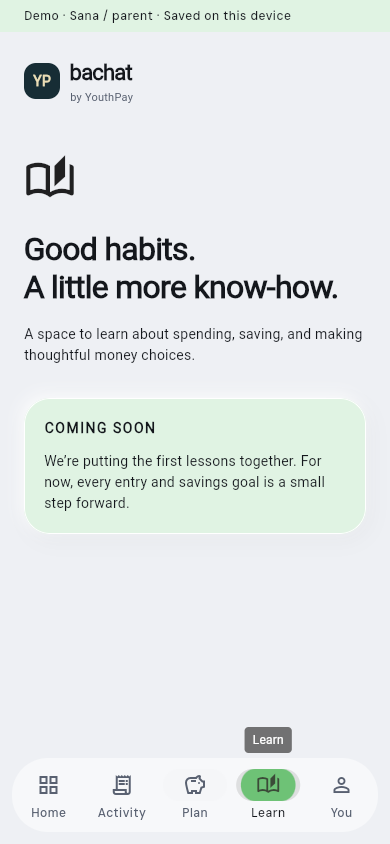
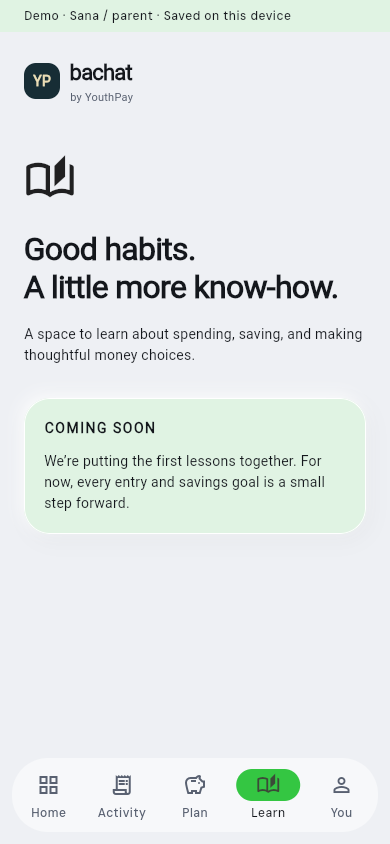
docs: record demo usability checks and updated screen captures

Changed region(s): [[0.5846, 0.8626, 0.7692, 0.955]]

diff --git a/docs/VERIFICATION.md b/docs/VERIFICATION.md
@@ -1,41 +1,17 @@
-# Verification evidence
+# Demo verification
 
-## Palette contrast
+21 domain, repository, controller and widget tests passed. Coverage includes persistent shared demo records, persona restoration, reset, mutual family approval, read-only parent enforcement, access removal, exact money parsing, validated transactions/budgets/goals, and narrow/large-text layouts. Analyzer is clean.
 
-| Actual semantic pair | Contrast |
-|---|---:|
-| Light body on canvas | 13.38:1 |
-| Light secondary on white | 5.12:1 |
-| Light button text | 7.85:1 |
-| Dark body on canvas | 15.68:1 |
-| Dark secondary on surface | 8.29:1 |
-| Dark button text | 7.94:1 |
+Web release compilation and Windows Android arm64 debug APK compilation pass. Chrome at 390 × 844 verified teen and parent dashboards, Plan, Learn, persona switching and parent restoration after reload, with zero page errors. Light and dark screenshots were visually inspected. Widgets cover 320px and 200% text scaling. This is targeted usability/accessibility verification, not certification of every HCI principle or an assistive-device audit.
 
-Ratios calculated from sRGB relative luminance using WCAG contrast arithmetic. These text pairs exceed 4.5:1. This is not a claim that every state and generated Material color has been audited.
+Measured light-theme sRGB contrast: button text #102314 on #34C642 **7.31:1**; body #14171C on #EEF0F4 **15.74:1**; secondary #596171 on #EEF0F4 **5.46:1**; readable green #216D2C on #F7F8FA **6.01:1**. Selected navigation icons use dark primary text in both themes.
 
-## Verified locally
+Demo records stay on this device. Authentication and cloud synchronization are deferred. No live login is claimed. iOS signing/device testing requires the Mac team; no physical Android test has been performed.
 
-- Flutter analyzer: clean.
-- 19 domain, repository, controller, and widget tests cover entry validation, budgets/goals, offline queue coalescing and in-flight edits, account isolation, offline sign-out cleanup, parent restrictions, and approval gates.
-- Web release compilation passes. Debug preview runs at http://127.0.0.1:8080.
-- Android arm64 debug APK compiled successfully on Windows at `build/app/outputs/flutter-apk/app-debug.apk`; universal debug APK builds also pass in GitHub Actions.
-- Chrome mobile-viewport smoke checks reached onboarding, teen dashboard, transaction form, Plan, and Learn; screenshot inspection checked the rendered teen dashboard.
-- Live Supabase transactional authorization tests pass; fixture rollback confirmed zero test profiles remain.
-
-## External or platform-specific validation
-
-- Google provider credentials and redirects are pending the owner’s setup; live Google login has not been verified.
-- iOS compile/signing/device checks require the Mac team.
-- Android debug APK compilation passed in GitHub Actions (PR #1). Physical Android device testing has not been performed.
-
-## Screenshots
-
-Captured from the running debug app in Chrome at 390 × 844. Dashboard screenshots contain clearly marked sample data.
-
-| Onboarding | Teen home | Parent home |
+| Teen | Parent | Plan |
 |---|---|---|
-| ![Onboarding](screenshots/onboarding.png) | ![Teen dashboard](screenshots/teen-home.png) | ![Parent dashboard](screenshots/parent-home.png) |
+| ![Teen](screenshots/teen-home.png) | ![Parent](screenshots/parent-home.png) | ![Plan](screenshots/plan.png) |
 
-| Budgets and goals | Learning placeholder |
-|---|---|
-| ![Planning screen](screenshots/plan.png) | ![Learning screen](screenshots/learn.png) |
+| Introduction | Learning | Dark theme |
+|---|---|---|
+| ![Introduction](screenshots/onboarding.png) | ![Learning](screenshots/learn.png) | ![Dark](screenshots/teen-dark.png) |
